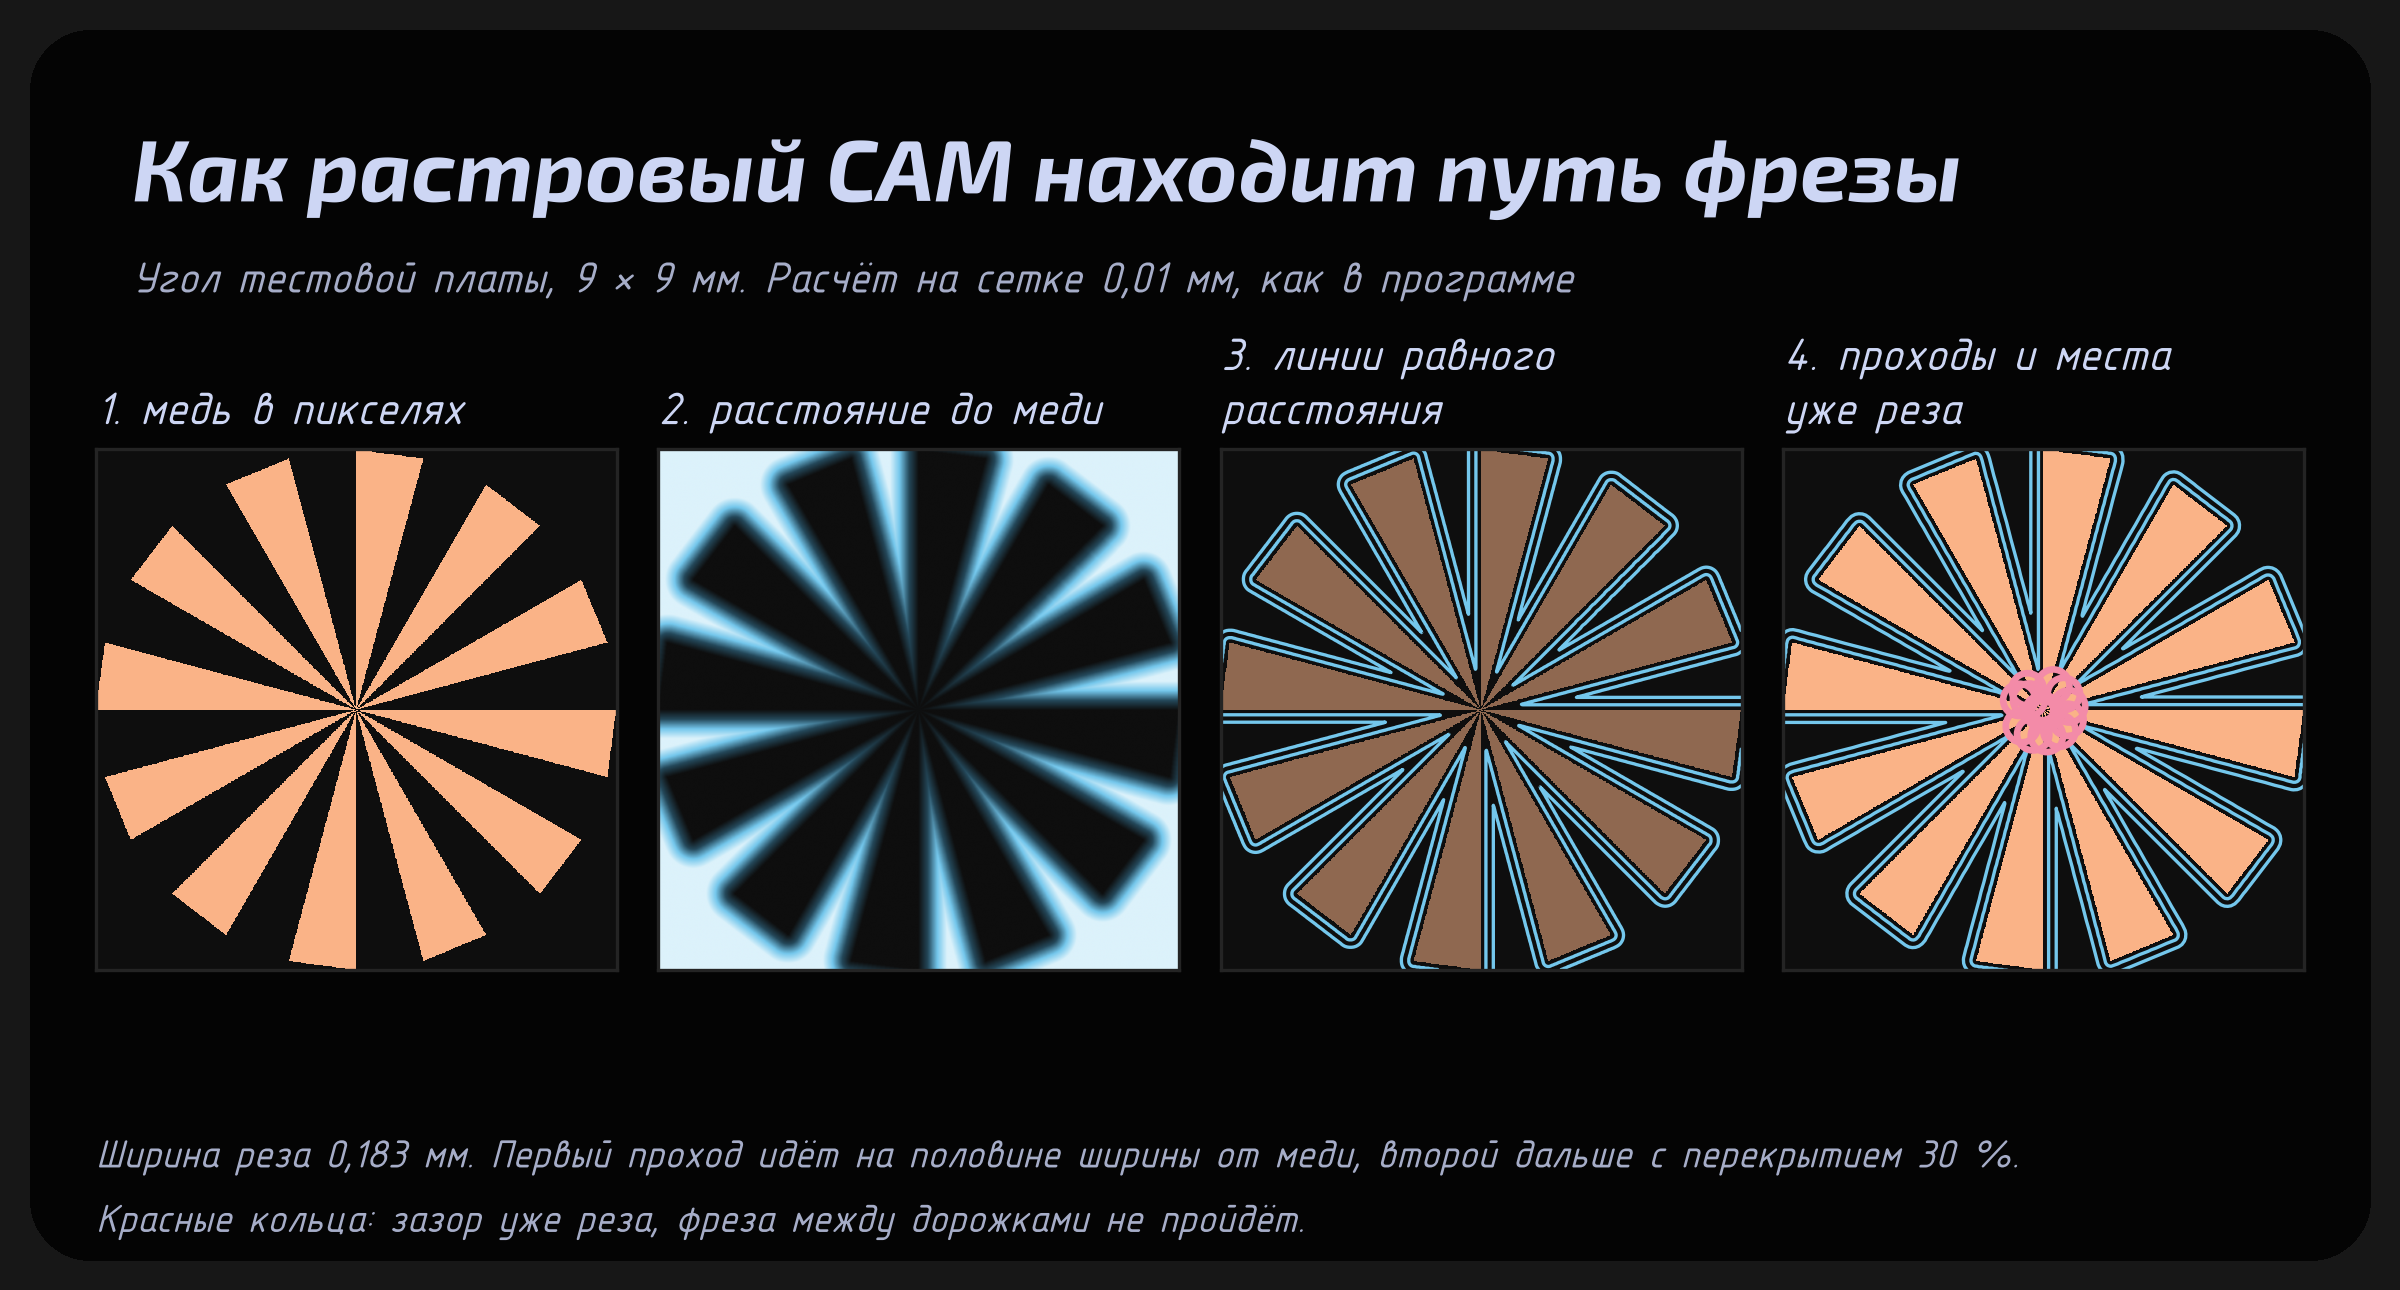
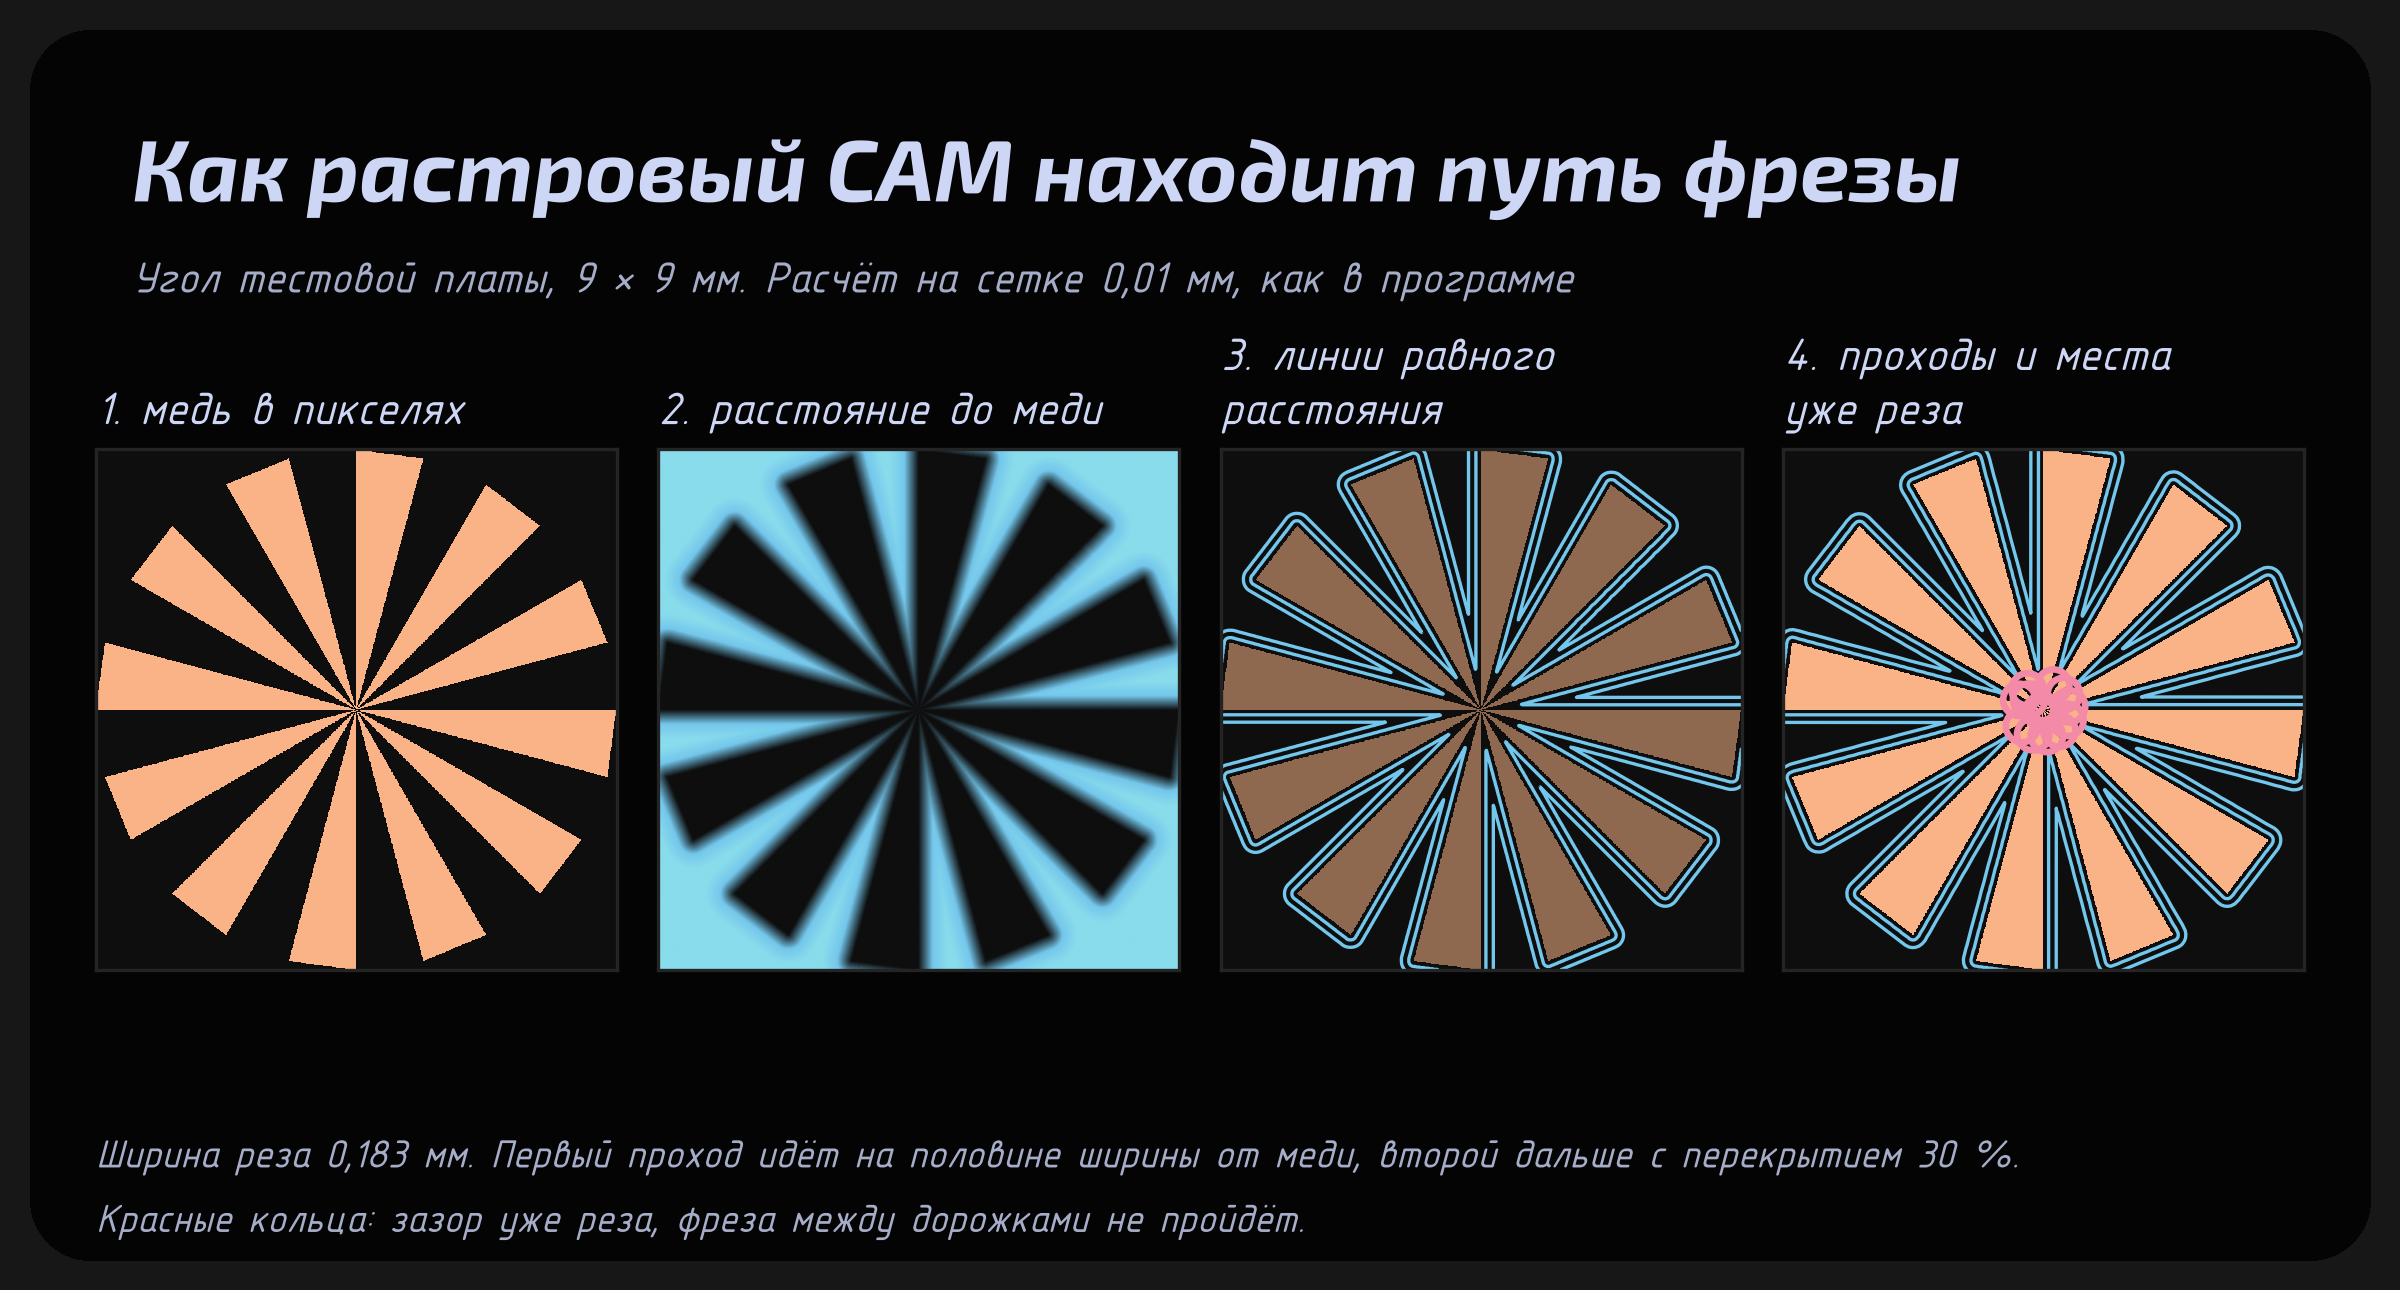
Статья: шкала расстояний из цветов Catppuccin Mocha

Changed region(s): [[0.25, 0.3411, 0.5, 0.7752]]

diff --git a/docs/article/figures.py b/docs/article/figures.py
@@ -322,7 +322,7 @@ def fig_pipeline():
         ax.set_facecolor(C["board"])
     copper_img(a[0], cr)
     panel(a[0], box, "1. медь в пикселях")
-    cmap = LinearSegmentedColormap.from_list("fd", [C["board"], "#24485a", C["mine"], "#dcf2fb"])
+    cmap = LinearSegmentedColormap.from_list("fd", [C["board"], C["mine"], "#89dceb"])  # to Sapphire, then Sky
     a[1].imshow(np.minimum(mm, 0.5), origin="lower", extent=box, cmap=cmap, interpolation="bilinear")
     panel(a[1], box, "2. расстояние до меди")
     copper_img(a[2], cr, 0.55)
